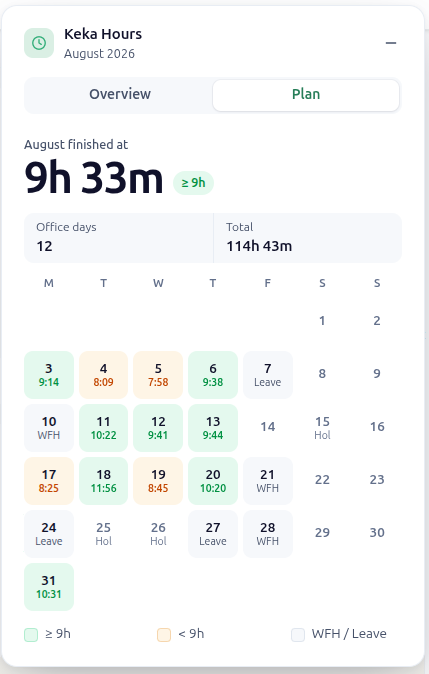
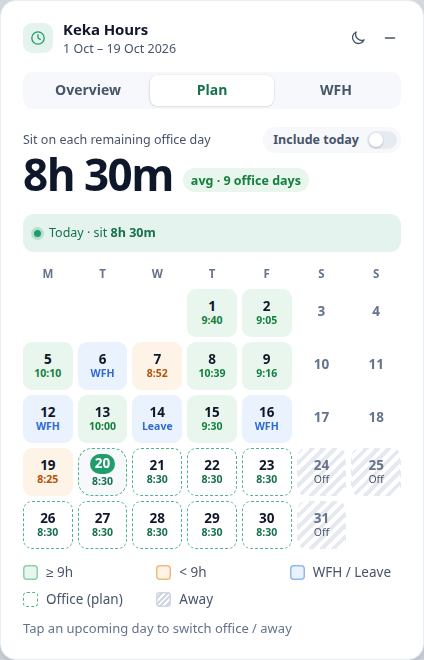
Plan: today in a filled circle; clearer WFH / office / away colours
- Today's date sits in a filled circle in the theme colour instead of the
  black ring around the cell (the cell keeps its own colour).
- WFH / Leave days are soft blue (were the same grey as everything else),
  planned office days have a stronger dashed border, away days stronger
  stripes; the legend swatches match, slightly bigger with firmer borders.
- docs/plan.png refreshed.

diff --git a/src/content/ui.js b/src/content/ui.js
@@ -79,12 +79,16 @@
   --tab-ind-shadow: 0 1px 2px rgba(15,23,42,.08), 0 0 0 1px rgba(15,23,42,.04);
   --meter-off: #e6ebf1;
   --plan-bg: #fff;
-  --away-a: #f4f6f9;
+  --away-a: #e6eaf0;
   --away-b: #fff;
-  --legend-good: #bfe5cf;
+  --plan-line: color-mix(in srgb, var(--brand) 78%, #fff);
+  --off-soft: #eaf2fe;
+  --off-text: #2f6bd0;
+  --legend-good: #8fcfaa;
   --legend-warn: #f2d3ad;
-  --legend-neutral: #e1e7ee;
-  --legend-away-a: #e9edf2;
+  --swatch-warn: #efbb7d;
+  --legend-off: #93b8ee;
+  --legend-away-a: #cfd6df;
   --legend-away-b: #fff;
   font-family: Inter, "Segoe UI", system-ui, -apple-system, Roboto, "Helvetica Neue", Arial, sans-serif;
   font-size: 14.5px;
@@ -136,12 +140,16 @@
   --tab-ind-shadow: 0 1px 2px rgba(0,0,0,.4), 0 0 0 1px rgba(255,255,255,.04);
   --meter-off: #2f3944;
   --plan-bg: var(--bg);
-  --away-a: #232a33;
+  --away-a: #2c343e;
   --away-b: #161b22;
-  --legend-good: #276846;
+  --plan-line: color-mix(in srgb, var(--brand) 85%, #fff);
+  --off-soft: #172a45;
+  --off-text: #84b3ff;
+  --legend-good: #3a8a5e;
   --legend-warn: #7a5524;
-  --legend-neutral: #38424f;
-  --legend-away-a: #38424f;
+  --swatch-warn: #a8742f;
+  --legend-off: #416fae;
+  --legend-away-a: #4a5563;
   --legend-away-b: #161b22;
 }
 button { font: inherit; color: inherit; background: none; border: 0; margin: 0; padding: 0; cursor: pointer; }
@@ -382,25 +390,27 @@ svg { width: 100%; height: 100%; display: block; }
 .s-worked.good .cal-v { color: var(--good); font-weight: 600; }
 .s-worked.warn { background: var(--warn-soft); }
 .s-worked.warn .cal-v { color: var(--warn); font-weight: 600; }
-.s-wfh, .s-leave { background: var(--surface); }
+.s-wfh, .s-leave { background: var(--off-soft); }
+.s-wfh .cal-v, .s-leave .cal-v { color: var(--off-text); font-weight: 600; }
 .s-off, .s-holiday, .s-none, .s-absent { color: var(--subtle); }
 .s-off .cal-v, .s-holiday .cal-v, .s-absent .cal-v { color: var(--subtle); }
-.s-plan-office { border: 1.5px dashed var(--brand-line); background: var(--plan-bg); }
+.s-plan-office { border: 1.5px dashed var(--plan-line); background: var(--plan-bg); }
 .s-plan-office .cal-v { color: var(--brand-text); font-weight: 700; }
 .s-plan-away { color: var(--subtle); background: repeating-linear-gradient(135deg, var(--away-a) 0 4px, var(--away-b) 4px 8px); border: 1.5px solid transparent; }
 /* A month spanning six weeks gets shorter cells, so the card stays its usual height. */
 .cal.six .cal-cell { height: 39px; }
 button.cal-cell:hover { transform: translateY(-1px); border-color: var(--brand); border-style: solid; }
-.cal-cell.today::after { content: ""; position: absolute; inset: -3px; border: 2px solid var(--text); border-radius: 11px; pointer-events: none; }
+/* Today: the date in a filled circle (the cell keeps its own colour). */
+.cal-cell.today .cal-d { display: grid; place-items: center; min-width: 20px; height: 20px; padding: 0 5px; border-radius: 999px; background: var(--brand); color: #fff; font-weight: 700; }
 .cal-cell.overridden::before { content: ""; position: absolute; top: 4px; right: 4px; width: 5px; height: 5px; border-radius: 50%; background: var(--dot-warn); }
 .legend { display: grid; grid-template-columns: repeat(3, 1fr); align-items: center; gap: 8px 22px; margin-top: 14px; font-size: 13.5px; color: var(--muted); }
 .legend span { display: inline-flex; align-items: center; }
-.legend i { display: inline-block; flex: none; width: 14px; height: 14px; margin-right: 7px; border-radius: 4px; }
-.legend .lw { background: var(--good-soft); box-shadow: inset 0 0 0 1px var(--legend-good); }
-.legend .lu { background: var(--warn-soft); box-shadow: inset 0 0 0 1px var(--legend-warn); }
-.legend .lx { background: var(--surface); box-shadow: inset 0 0 0 1px var(--legend-neutral); }
-.legend .lp { border: 1.5px dashed var(--brand-line); }
-.legend .la { background: repeating-linear-gradient(135deg, var(--legend-away-a) 0 2px, var(--legend-away-b) 2px 4px); box-shadow: inset 0 0 0 1px var(--legend-neutral); }
+.legend i { display: inline-block; flex: none; width: 15px; height: 15px; margin-right: 8px; border-radius: 4px; }
+.legend .lw { background: var(--good-soft); box-shadow: inset 0 0 0 1.5px var(--legend-good); }
+.legend .lu { background: var(--warn-soft); box-shadow: inset 0 0 0 1.5px var(--swatch-warn); }
+.legend .lx { background: var(--off-soft); box-shadow: inset 0 0 0 1.5px var(--legend-off); }
+.legend .lp { border: 1.5px dashed var(--plan-line); }
+.legend .la { background: repeating-linear-gradient(135deg, var(--legend-away-a) 0 2px, var(--legend-away-b) 2px 4px); box-shadow: inset 0 0 0 1.5px var(--legend-away-a); }
 .legend .hint { grid-column: 1 / -1; margin-top: 2px; font-size: 13px; color: var(--subtle); }
 
 /* ---------- WFH: today first, then the settings for every WFH day ---------- */
